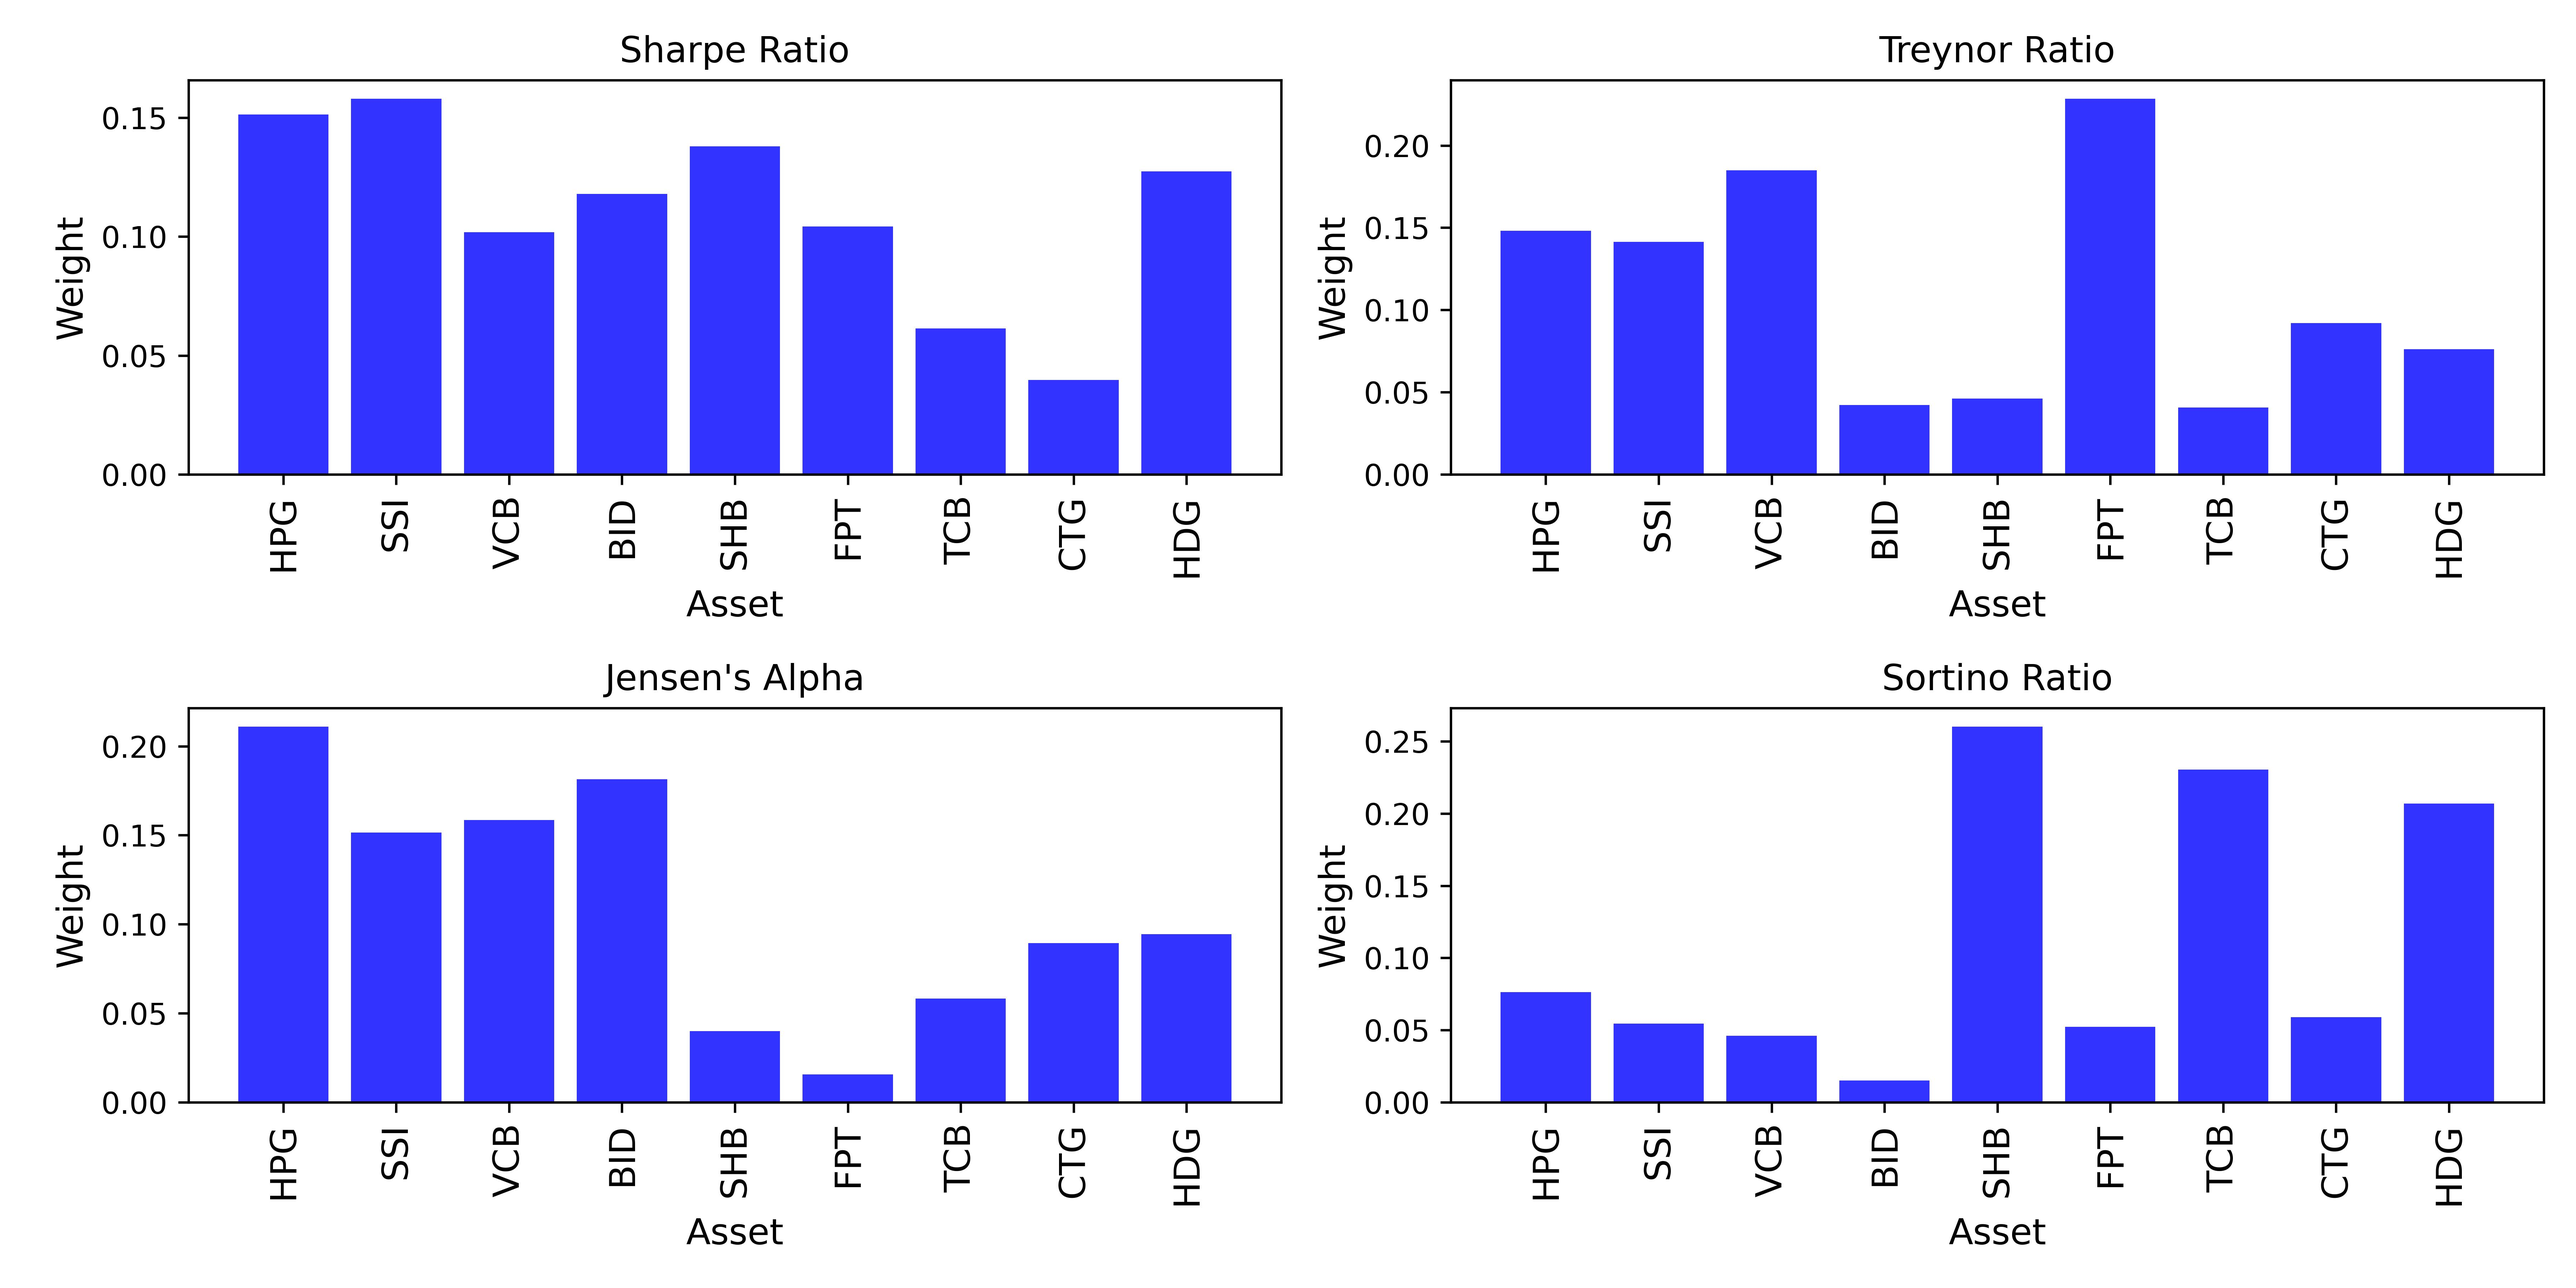
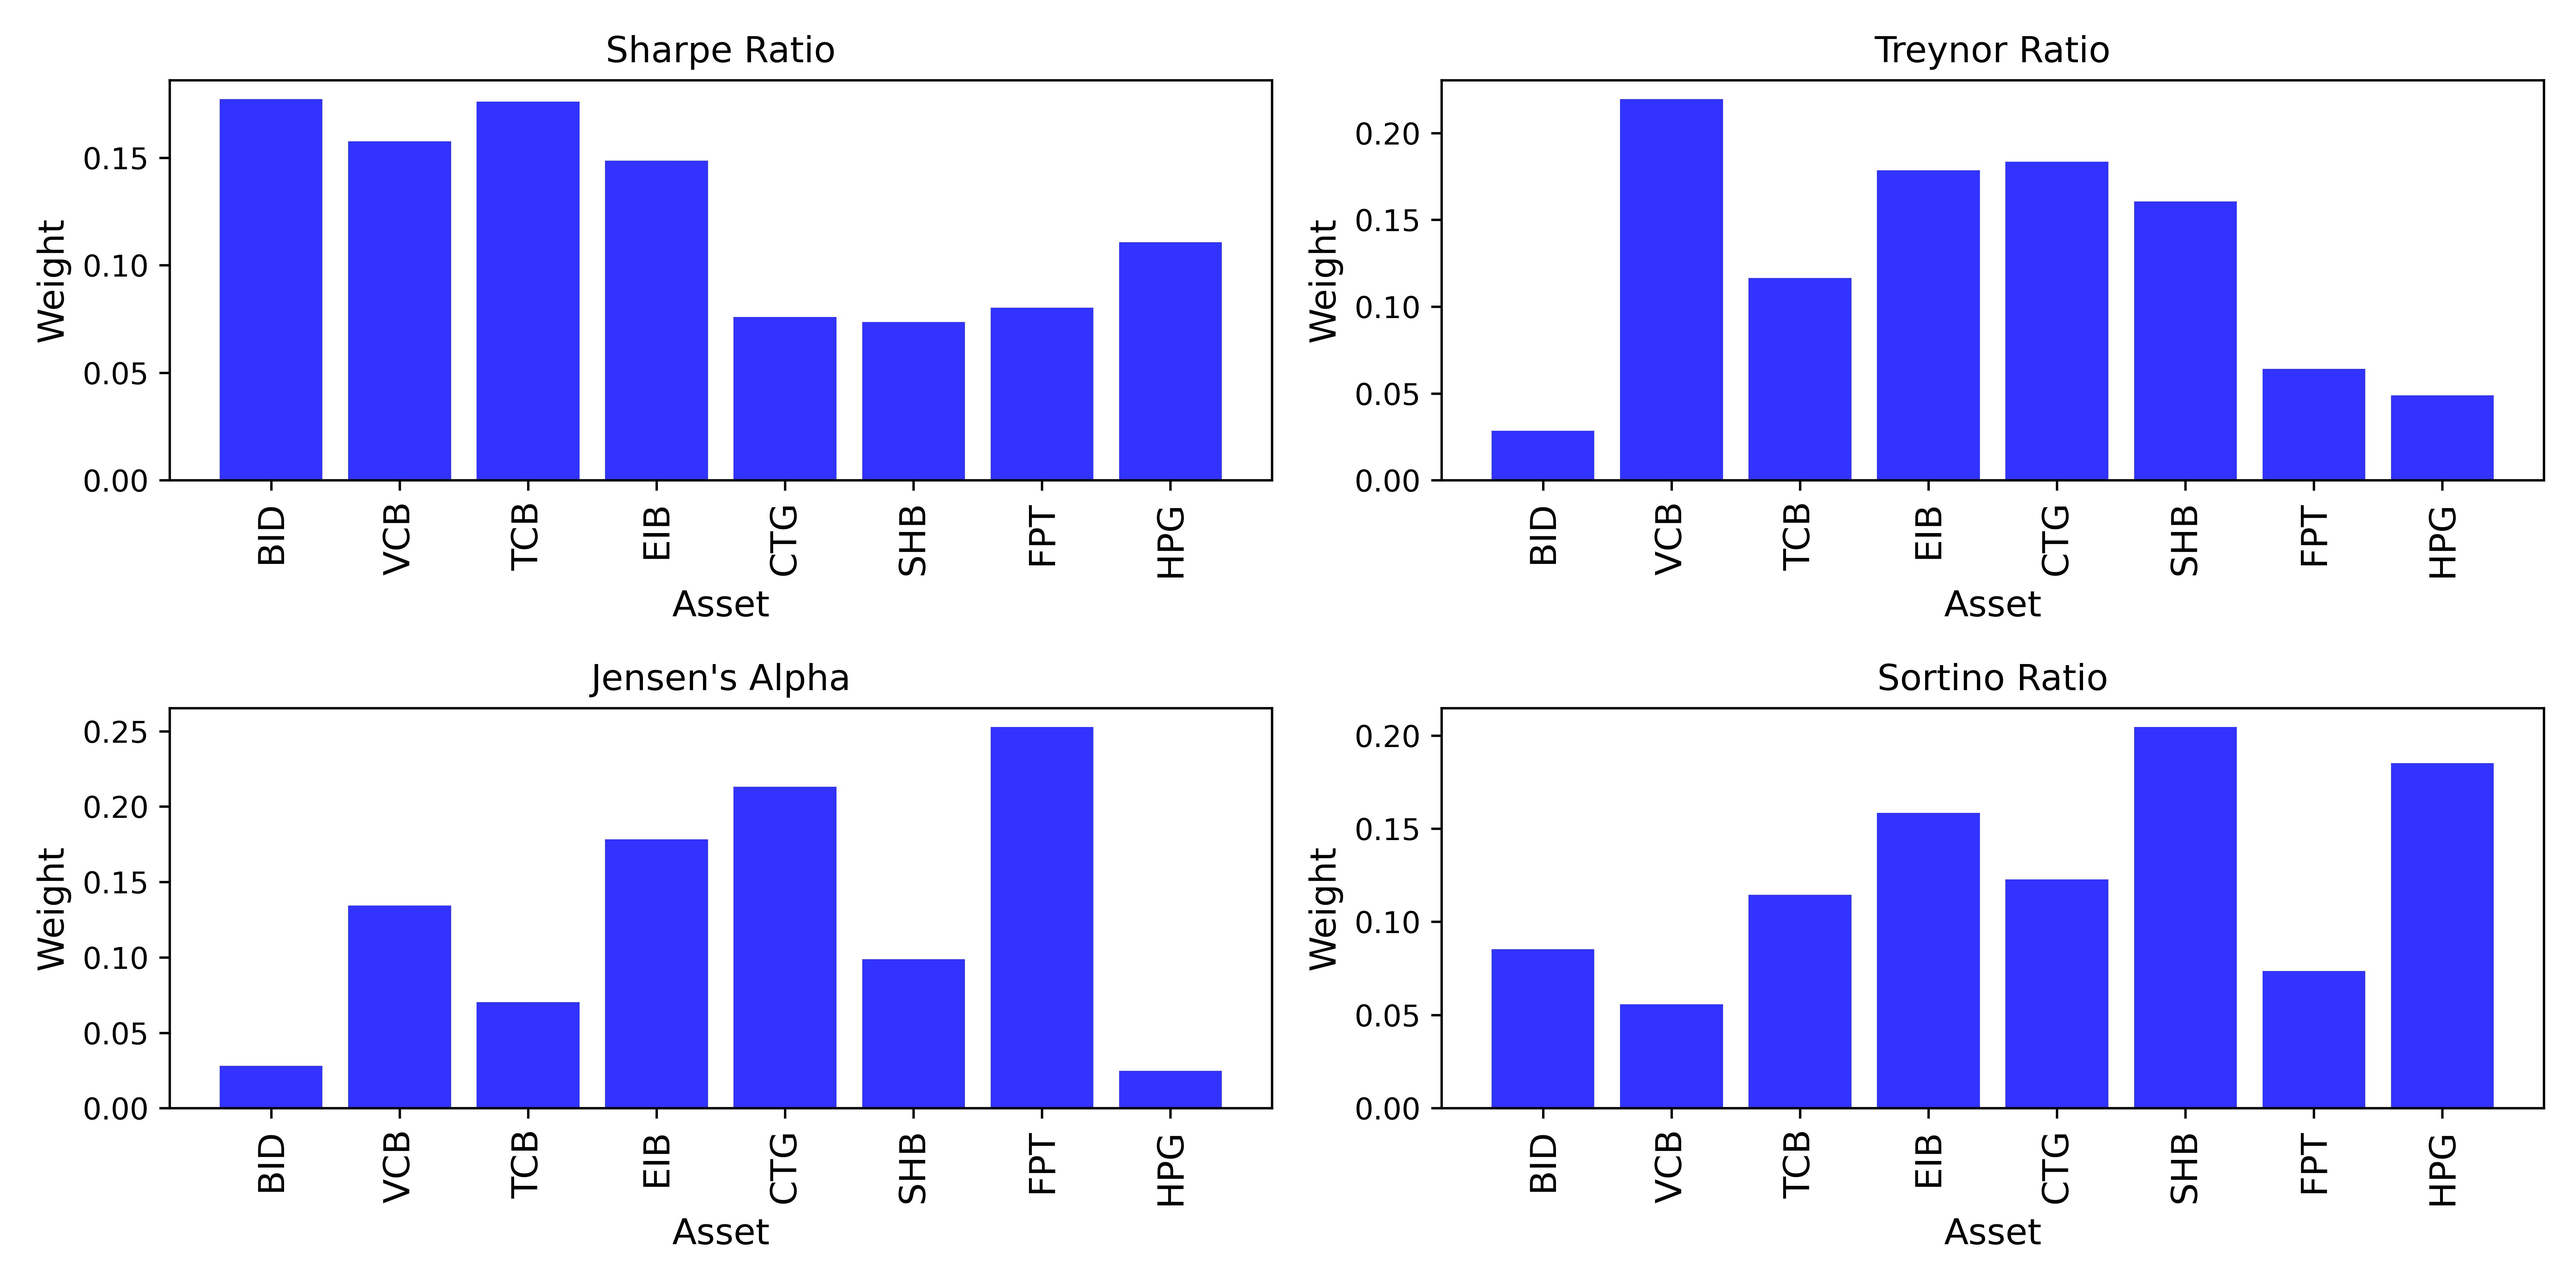
Add performance metrix

diff --git a/src/modules/strategies/techniques/performance.py b/src/modules/strategies/techniques/performance.py
@@ -146,8 +146,11 @@ class PortfolioPerformance(StrategyInterface):
         axes[1, 1].set_ylabel("Return", fontsize=12)
 
         plt.tight_layout()
-        plt.savefig(f"{CommonConsts.IMG_FOLDER}\\eff_frontier.jpg", dpi=600)
+        # plt.savefig(f"{CommonConsts.IMG_FOLDER}\\eff_frontier.jpg", dpi=600)
+        st.pyplot(plt)
 
+        """Portfolio Weights"""
+        st.subheader("Portfolio Weights")
         fig, axes = plt.subplots(2, 2, figsize=(12, 6))
         axes = axes.flatten()
 

diff --git a/src/modules/yfinance/processor/processor.py b/src/modules/yfinance/processor/processor.py
@@ -8,9 +8,3 @@ class YfinanceProcessor:
         processed_df = processed_df[[col for col in processed_df.columns if 'close' in col]]
         processed_df.columns = [col.split('_')[0] for col in processed_df.columns]
         return processed_df
-
-
-    # @staticmethod
-    # def build_price_matrix(processed_df: pd.DataFrame) -> pd.DataFrame:
-    #     matrix = processed_df[[col for col in processed_df.columns if 'close' in col]].copy()
-    #     return matrix
